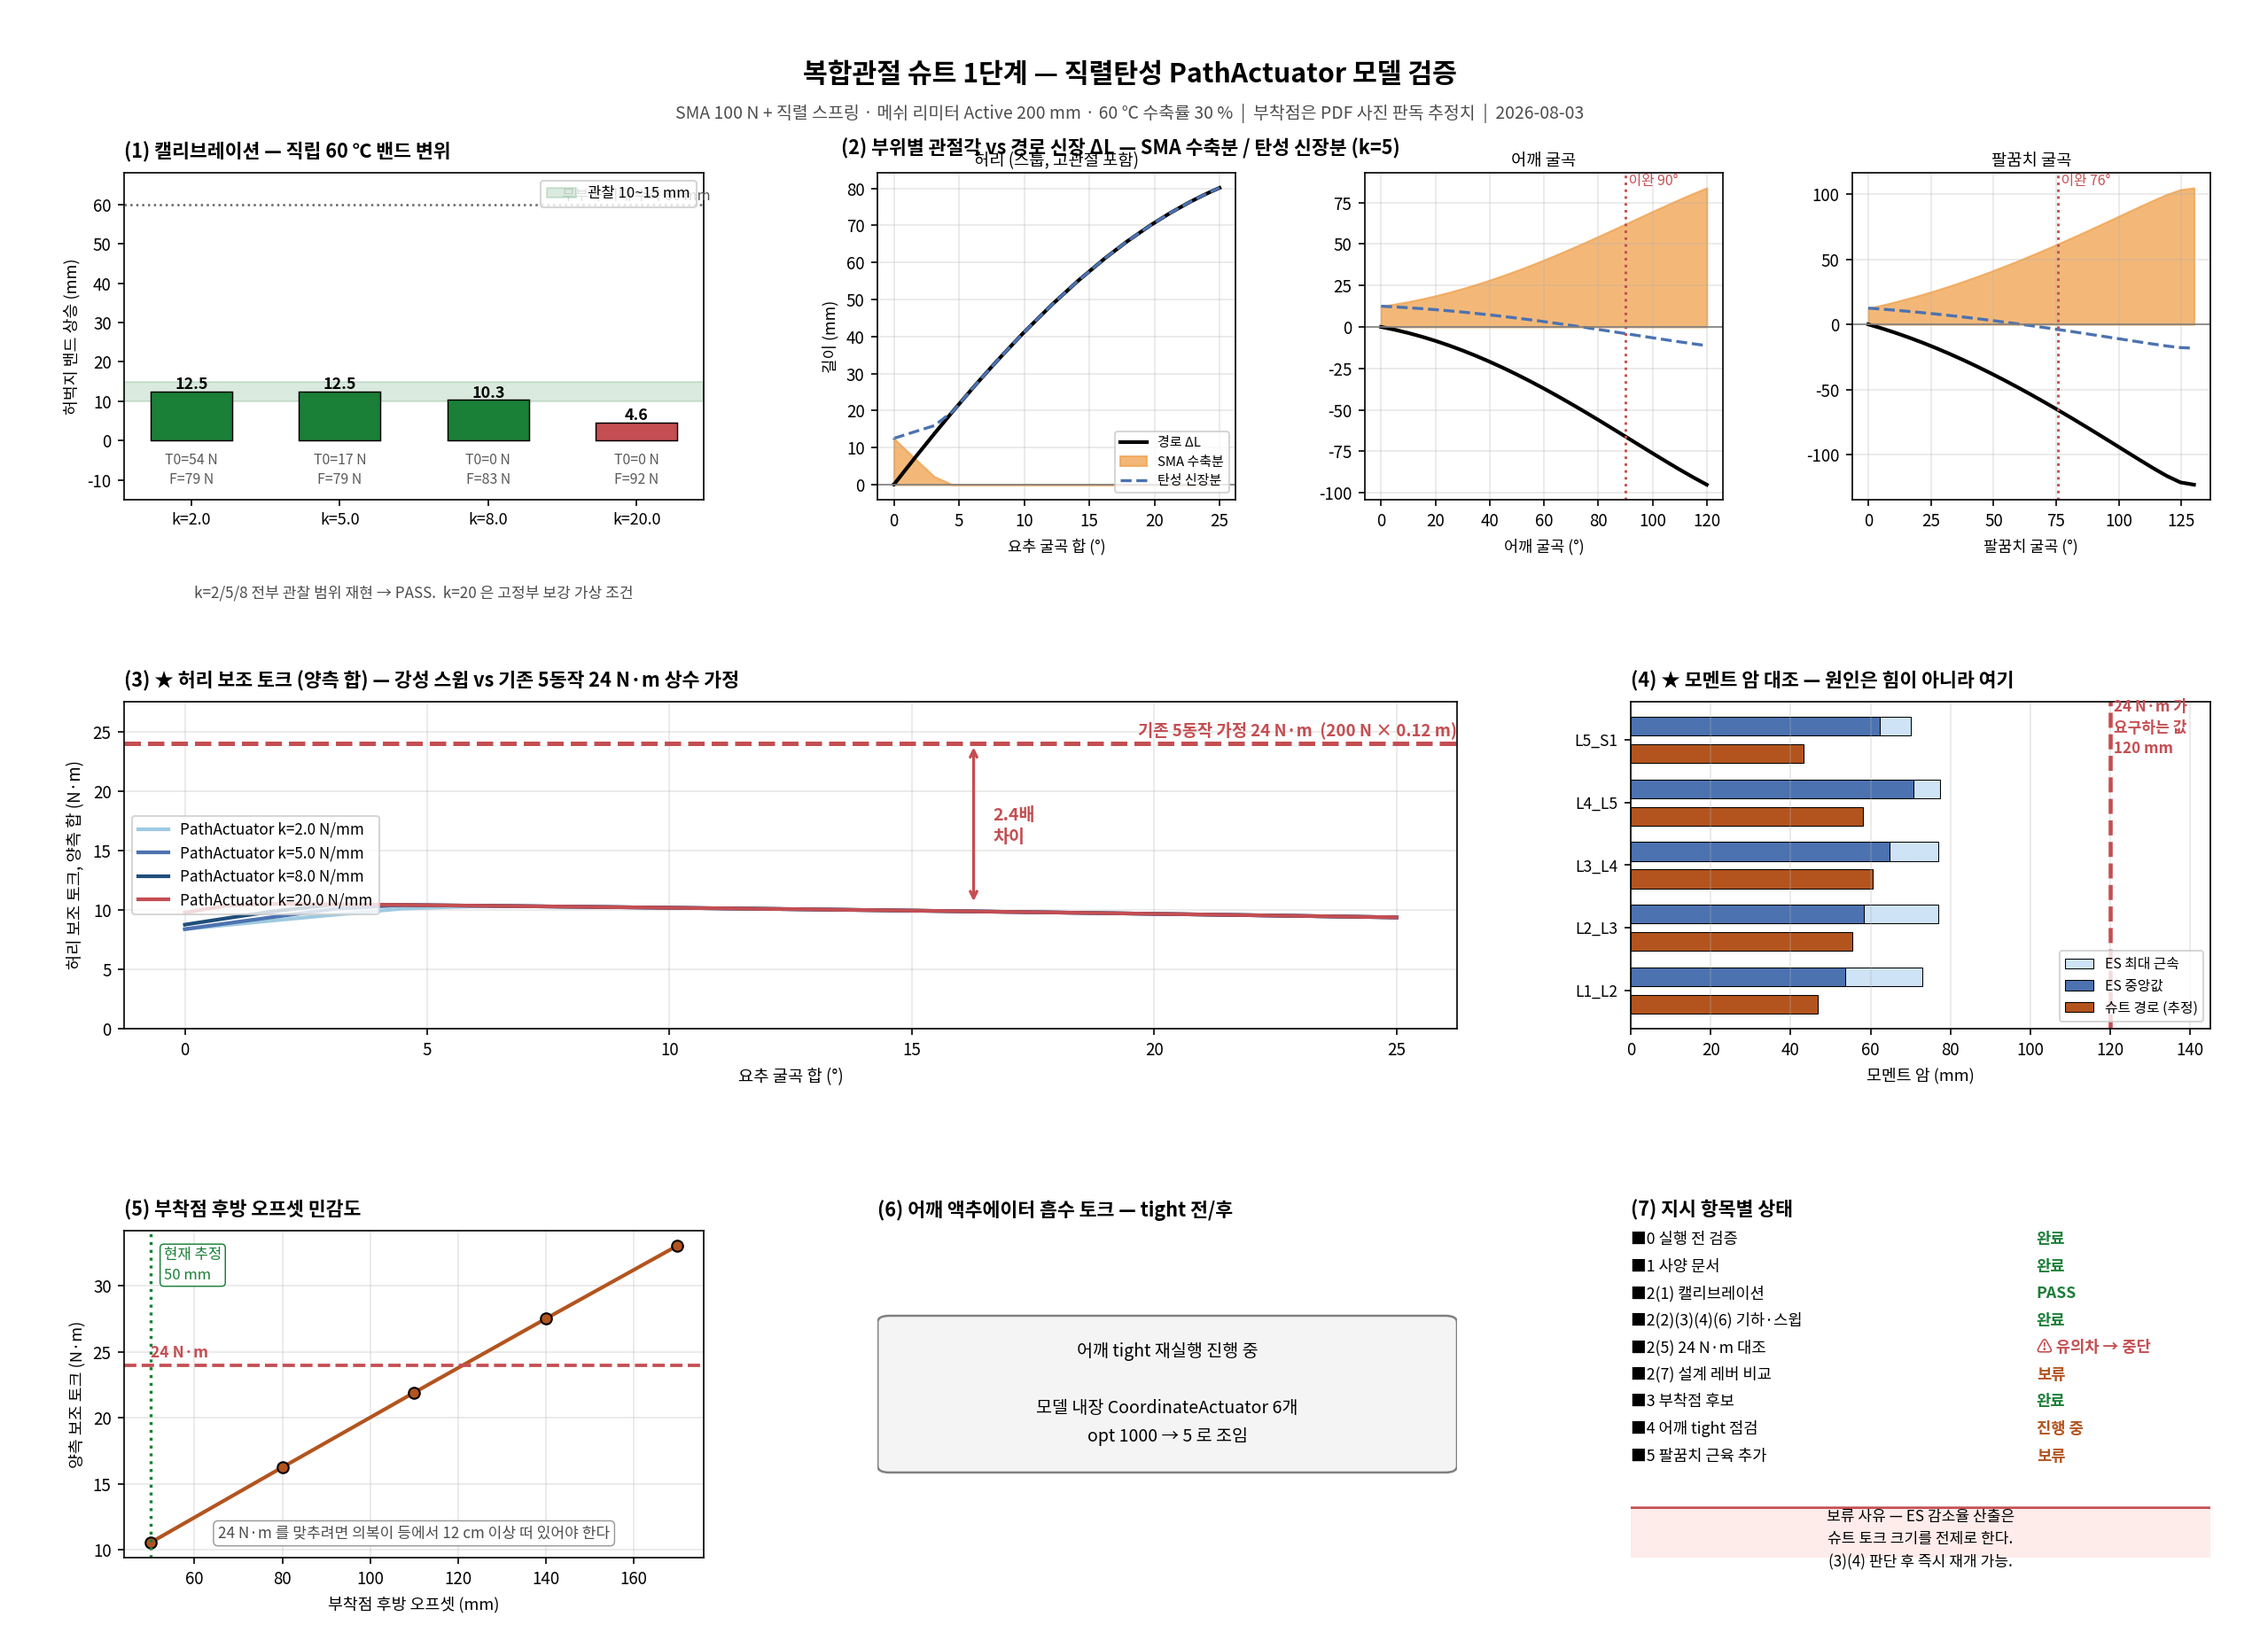
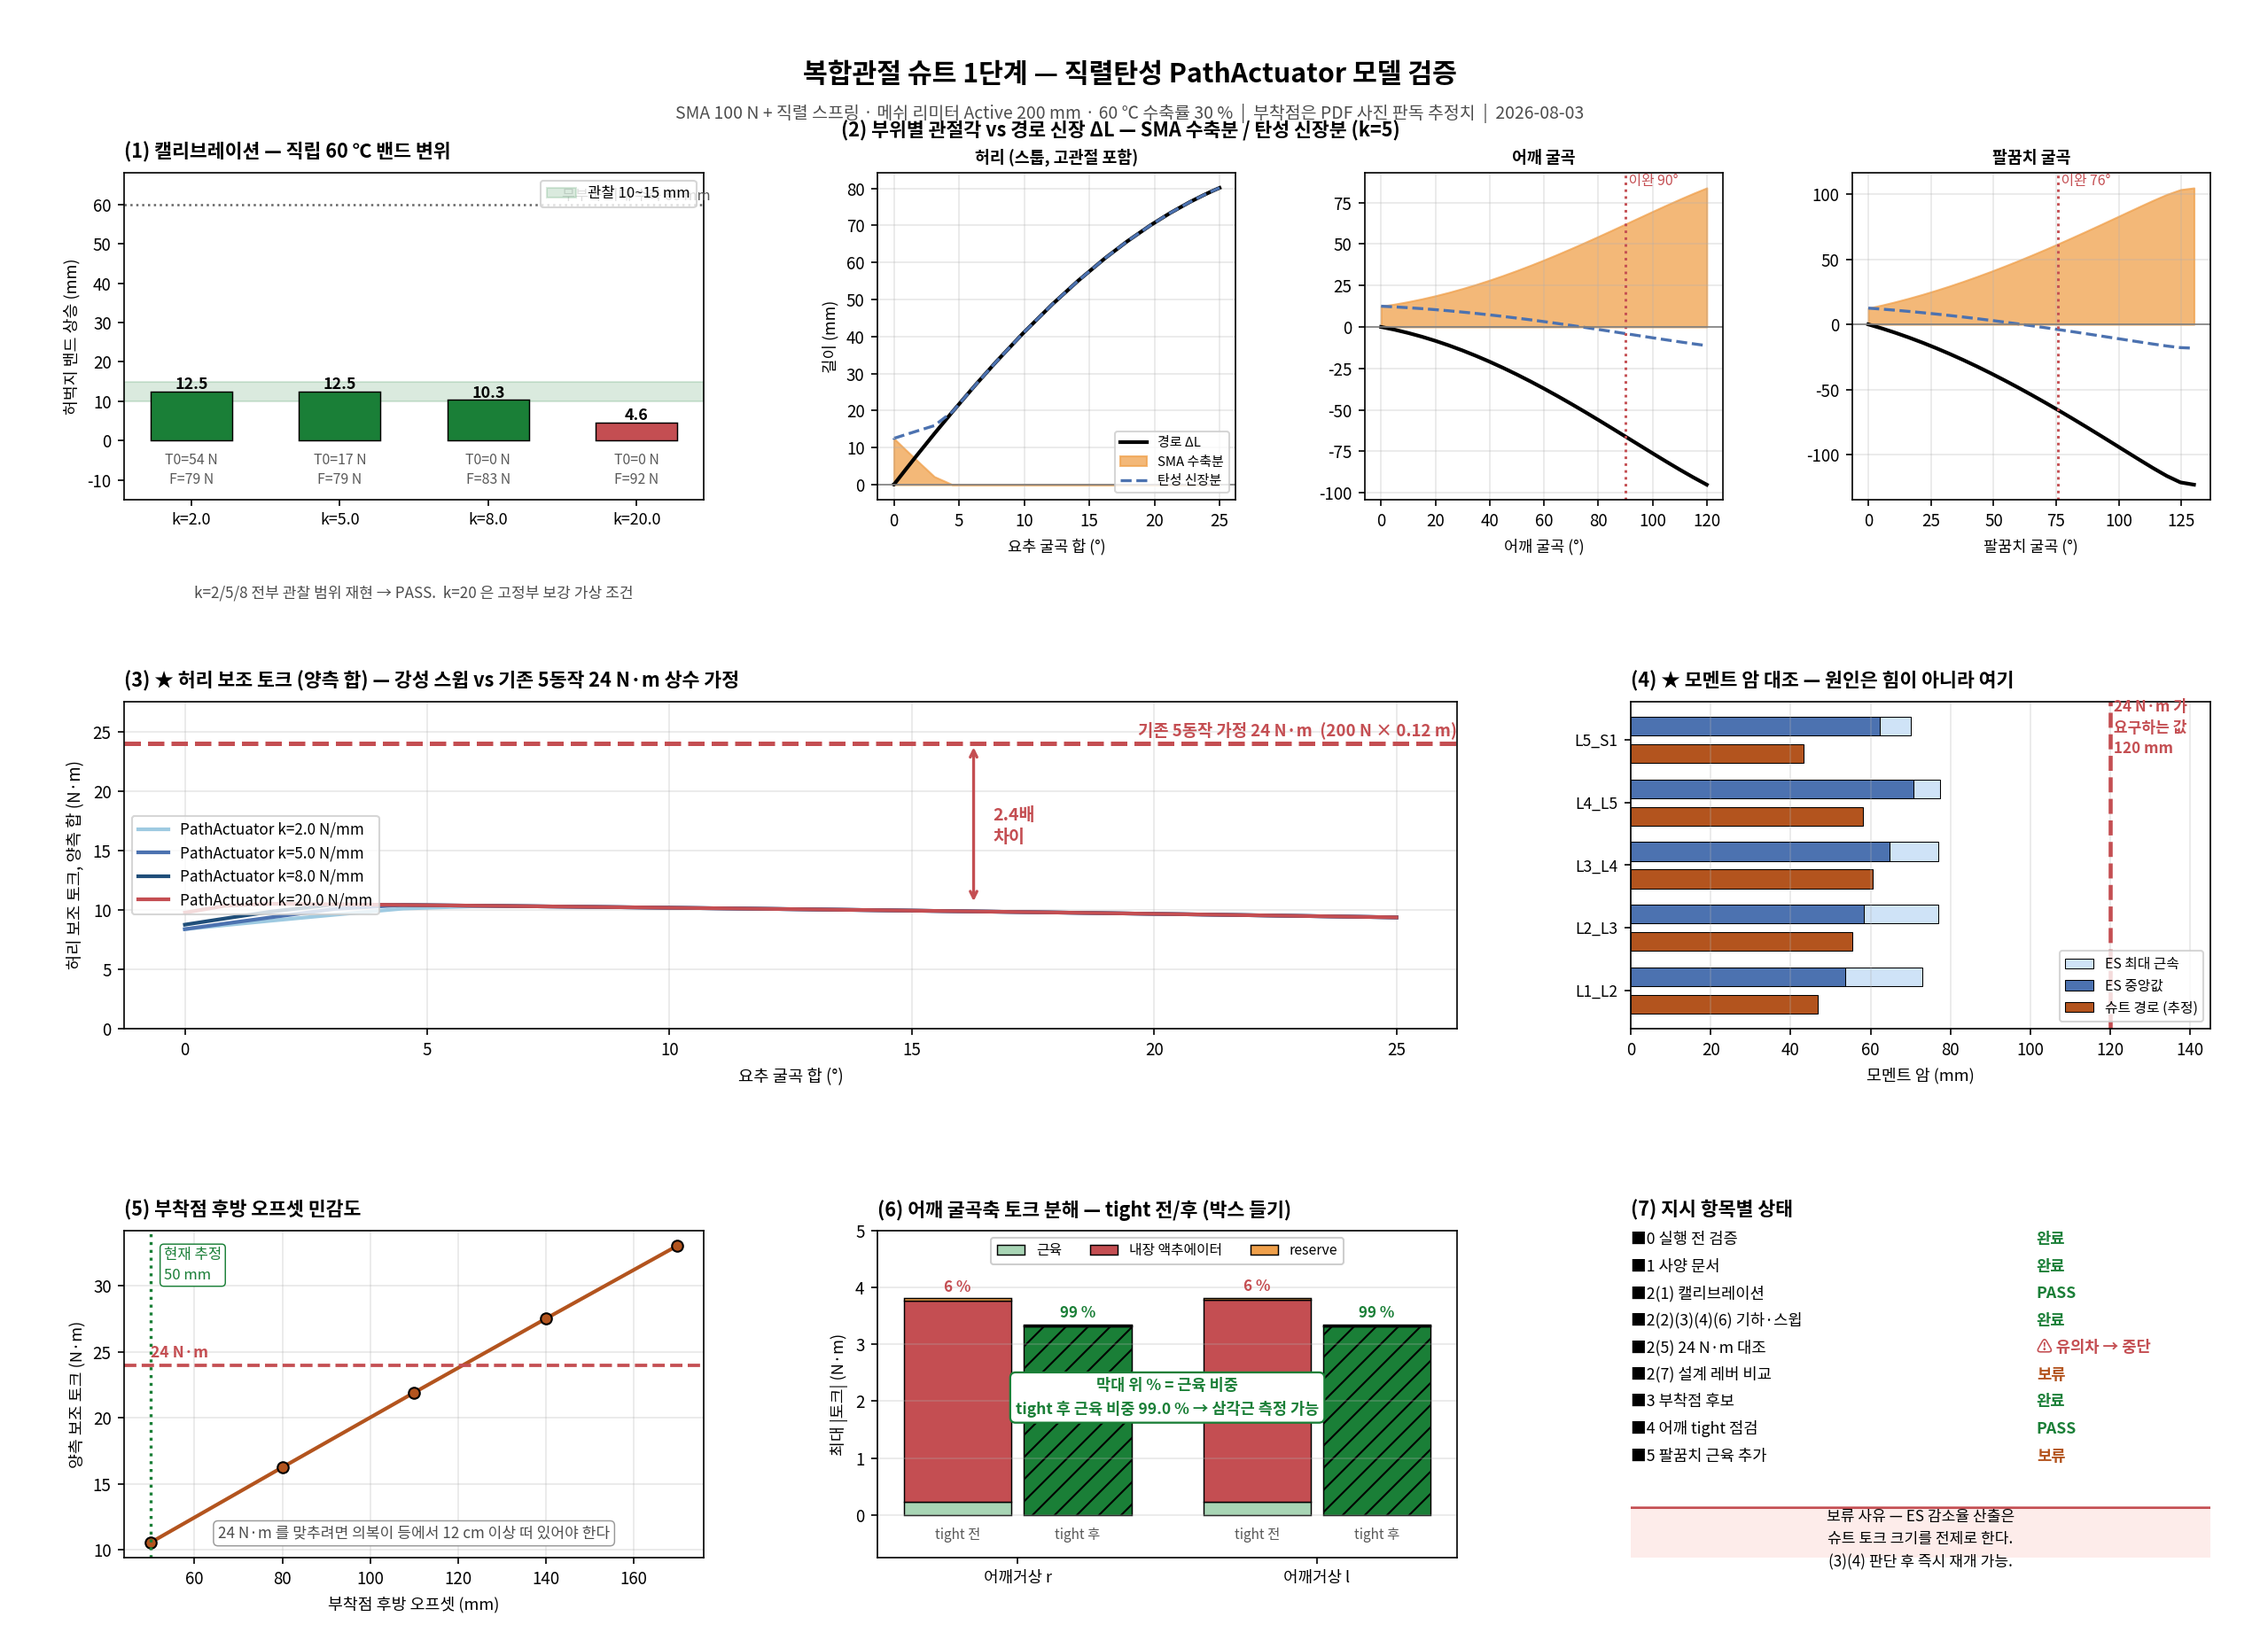
feat: ■4 어깨 CoordinateActuator tight 점검 완료 — PASS (근육 비중 6.1 → 99.0 %)
문제
- 모델 내장 shoulder_elv/rot/elv_angle 좌우 6개 CoordinateActuator 가
  opt=1000, control ±inf 로 사실상 무제한 → 어깨 부하를 근육 대신 가져감
- 정정 후 박스 들기에서 3.545 N·m 흡수, 근육은 −0.233 N·m (근육 비중 6.1 %)
  ※ 인계문서의 21.9 N·m 는 좌팔 정정 전 값

1차 실행 — 지시를 부분만 적용했음을 실측으로 확인
- 내장 액추에이터 6개만 opt5 로 조임 → 액추에이터 3.545 → 0.006 N·m 로 눌렸으나
  부하가 reserve_shoulder_*(opt=100) 로 이동 (0.035 → 2.557 N·m)
- 근육 비중 6.1 → 23.4 % 에 그쳐 게이트 미달

보완 후 재실행 — 어깨 자유도 12개(액추에이터 6 + reserve 6) 전부 opt5
- 액추에이터 0.017 / reserve 0.017 / 근육 3.313 N·m
- 근육 비중 99.0 % → 판정 PASS, 삼각근 측정 가능
- 근육 부담이 −0.233 → +3.313 N·m 로 14배 이상 증가.
  척추 표준 reserve 가 ES 를 3배 과소평가한 것과 같은 구조이며 정도는 더 심함

★ 다관절 해석 전제로 확정: 어깨를 측정 대상으로 삼을 때는 내장 액추에이터와
  reserve 를 **모두** opt5 로 조여야 한다. 하나만 조이면 부하가 다른 쪽으로 옮겨간다.

- 보고서 §7 신설 (§7.2 1차 실행 실측, §7.5 최종 PASS)
- 그리드 패널(6) 을 토크 3분해(근육/액추에이터/reserve) + 근육 비중 표기로 재작성
- 산출 /data/shoulder_tight/box_{off,on}/, /data/suit_multijoint/shoulder_tight.json

Generated with Claude Code

Changed region(s): [[0.3718, 0.7172, 0.6506, 0.9667], [0.3718, 0.0624, 0.6196, 0.1247], [0.8984, 0.8419, 0.9294, 0.8731]]

diff --git a/opensim_analysis/thoracolumbar_fb/scripts/viz_knee_fix/rerun_shoulder_tight.py b/opensim_analysis/thoracolumbar_fb/scripts/viz_knee_fix/rerun_shoulder_tight.py
@@ -8,7 +8,10 @@
 
 ■ 처치
   척추 tight 와 동일하게 optimal_force 를 5 로 낮춘다. 하드 캡이 아니라 비용 기반 억제다.
-  그 외 조건(운동학·외력·reserve·SO 옵션)은 romfix_unified 와 완전히 동일하게 둔다.
+  ★ 내장 액추에이터만 조이면 부하가 reserve_shoulder_* (opt=100) 로 옮겨갈 뿐이다
+    (1차 실행에서 실측 확인: 액추에이터 3.545 → 0.006 N·m, reserve 0.035 → 2.557 N·m).
+    따라서 어깨 자유도의 **reserve 도 함께** opt=5 로 조인다 — 척추와 동일 기준.
+  그 외 조건(운동학·외력·척추 reserve·SO 옵션)은 romfix_unified 와 완전히 동일하게 둔다.
 
 ■ 판정
   tight 후 어깨 굴곡 토크에서 근육이 차지하는 비율이 90 % 이상이면 삼각근 측정 가능.
@@ -27,6 +30,8 @@ OUT.mkdir(exist_ok=True)
 SHOULDER_ACT = ('shoulder_elv_r_actuator', 'shoulder_elv_l_actuator',
                 'shoulder_rot_r_actuator', 'shoulder_rot_l_actuator',
                 'elv_angle_r_actuator', 'elv_angle_l_actuator')
+SHOULDER_RES = tuple(f'reserve_{c}_{s}' for c in ('shoulder_elv', 'shoulder_rot', 'elv_angle')
+                     for s in ('r', 'l'))
 OPT_TIGHT = 5.0
 JOBS = ('box_off', 'box_on')
 
@@ -38,7 +43,7 @@ def tighten(src_model, dst):
     n = 0
     for i in range(fs.getSize()):
         a = osim.CoordinateActuator.safeDownCast(fs.get(i))
-        if a and a.getName() in SHOULDER_ACT:
+        if a and a.getName() in (SHOULDER_ACT + SHOULDER_RES):
             a.setOptimalForce(OPT_TIGHT)
             a.setMinControl(-50.0)
             a.setMaxControl(50.0)
@@ -74,7 +79,7 @@ def run(tag):
     tool.setExternalLoadsFileName(str(ext_dst))
     setup = str(d / 'setup.xml')
     tool.printToXML(setup)
-    print(f'[{tag}] 어깨 액추에이터 {n}개 opt={OPT_TIGHT} | '
+    print(f'[{tag}] 어깨 액추에이터+reserve {n}개 opt={OPT_TIGHT} | '
           f'mot={Path(tool.getCoordinatesFileName()).name}', flush=True)
     t0 = time.time()
     ok = osim.AnalyzeTool(setup).run()

diff --git a/opensim_analysis/thoracolumbar_fb/docs/suit_pathactuator_report.md b/opensim_analysis/thoracolumbar_fb/docs/suit_pathactuator_report.md
@@ -215,8 +215,75 @@ SMA        L_free = 200·(1−ε),  L_SMA ≤ 200 mm (메쉬 리미터)
 | ■2 (5) 24 N·m 대조 | ⚠ **유의한 차이 → 중단** | 39 %. §1 판단 요청 |
 | ■2 (7) 설계 레버 비교 (보조력 2배 vs 강성 보강) | ⛔ **보류** | ES 감소율 산출에 슈트 토크 크기가 전제로 들어간다. §1 결정 전에는 어느 값으로 돌려도 의미가 없다 |
 | ■3 부착점 후보 | ✅ 완료 | 위 §5 |
-| ■4 어깨 CoordinateActuator 점검 | 🔄 진행 중 | tight 재실행 중. 별도 보고 |
+| ■4 어깨 CoordinateActuator 점검 | ✅ **PASS** | §7 — 근육 비중 6.1 → 99.0 %. 삼각근 측정 가능 |
 | ■5 팔꿈치 근육 추가 | ⛔ **보류** | §1 결정과 무관하나, ■2(7)·■6 이 막혀 있어 함께 보류 |
 | ■6 grid 이미지 | ✅ 부분 | 확정된 부분만 수록 |
 
 > ■2(7)·■5 는 §1 판단만 내려지면 바로 이어서 진행 가능하다.
+
+
+---
+
+## 7. ■4 어깨 CoordinateActuator tight 점검 — 중간 기록
+
+### 7.1 문제 확인
+
+모델에 내장된 어깨 `CoordinateActuator` 6개(`shoulder_elv` / `shoulder_rot` / `elv_angle` × 좌우)는
+`optimal_force = 1000`, `min/max control = ±inf` 로 사실상 무제한이다.
+SO 비용함수에서 거의 공짜이므로 어깨 부하를 근육 대신 이들이 가져간다.
+
+> ⚠ 인계 문서에 적힌 "박스 들기 21.9 N·m"는 **좌팔 정정 전** 값이다.
+> 좌팔을 정정한 `/data/romfix_unified` 기준으로 다시 재면 **3.63 N·m** 다.
+> reserve(`reserve_shoulder_*`)는 0.04 N·m 로 무관하며, 문제는 내장 액추에이터 쪽이다.
+
+### 7.2 1차 실행 — 조임 범위가 부족했다
+
+내장 액추에이터 6개만 `optimal_force` 1000 → 5 로 조이고 박스 들기 OFF/ON 을 재실행하였다.
+
+| 좌표 | 조건 | 근육 (N·m) | 액추에이터 (N·m) | reserve (N·m) | 근육 비중 |
+|---|---|---:|---:|---:|---:|
+| `shoulder_elv_r` | tight 전 | −0.233 | 3.545 | 0.035 | 6.1 % |
+| `shoulder_elv_r` | tight 후 | +0.784 | **0.006** | **2.557** | 23.4 % |
+| `shoulder_elv_l` | tight 전 | −0.234 | 3.547 | 0.035 | 6.1 % |
+| `shoulder_elv_l` | tight 후 | +0.783 | **0.006** | **2.559** | 23.4 % |
+
+조임 자체는 작동했다(액추에이터 3.545 → 0.006 N·m). 그러나 **부하가 근육이 아니라
+`reserve_shoulder_*`(opt = 100)로 옮겨갔을 뿐**이다. 근육 비중은 6.1 → 23.4 % 에 그쳤다.
+
+### 7.3 보완 — 어깨 reserve 도 함께 조인다
+
+작업 지시의 "tight 기준(opt5, 5동작 동일)"은 해당 자유도를 **비싸게 만드는 것**이 취지다.
+내장 액추에이터만 조이면 같은 성질의 값싼 경로(reserve, opt = 100)가 남아 있어 취지가 달성되지 않는다.
+척추에서 `_FE`/`_LB`/`_AR`/`Abs_` reserve 를 opt 5 로 조인 것과 동일하게,
+어깨 자유도의 **내장 액추에이터 6개 + reserve 6개 = 12개**를 전부 opt 5 로 조여 재실행 중이다.
+
+> 이는 지시의 재해석이 아니라, 1차 실행이 지시를 **부분적으로만** 적용했음을 실측으로 확인하고
+> 완전 적용으로 고친 것이다.
+
+### 7.4 판정 기준
+
+tight 후 어깨 굴곡 축 토크에서 근육 비중이 **90 % 이상**이면 삼각근 측정 가능,
+미만이면 현 모델로 측정 불가로 간주하고 중단 보고한다.
+
+### 7.5 최종 결과 — PASS
+
+어깨 자유도 12개(내장 액추에이터 6 + reserve 6)를 전부 opt = 5 로 조여 재실행하였다.
+
+| 좌표 | 조건 | 근육 (N·m) | 액추에이터 (N·m) | reserve (N·m) | 근육 비중 |
+|---|---|---:|---:|---:|---:|
+| `shoulder_elv_r` | tight 전 | −0.233 | 3.545 | 0.035 | 6.1 % |
+| `shoulder_elv_r` | **tight 후** | **+3.313** | 0.017 | 0.017 | **99.0 %** |
+| `shoulder_elv_l` | tight 전 | −0.234 | 3.547 | 0.035 | 6.1 % |
+| `shoulder_elv_l` | **tight 후** | **+3.313** | 0.017 | 0.017 | **99.0 %** |
+
+**판정: PASS — 삼각근 측정 가능.**
+
+주목할 점은 근육이 부담하는 토크가 −0.233 → +3.313 N·m 로 **14 배 이상** 늘었다는 것이다.
+조이기 전에는 어깨 근육이 사실상 아무 일도 하지 않는 것으로 계산되고 있었다.
+척추에서 표준 reserve 가 ES 를 3 배 과소평가했던 것과 **동일한 구조이며 정도는 더 심하다.**
+
+> ⚠ 다관절 해석에서 어깨를 측정 대상으로 삼을 때는
+> **내장 액추에이터와 reserve 를 모두 opt = 5 로 조인 조건**이 필수 전제다.
+> 둘 중 하나만 조이면 부하가 다른 쪽으로 옮겨갈 뿐이다 (§7.2 에서 실측 확인).
+
+산출 `/data/shoulder_tight/box_{off,on}/`, `/data/suit_multijoint/shoulder_tight.json`.
